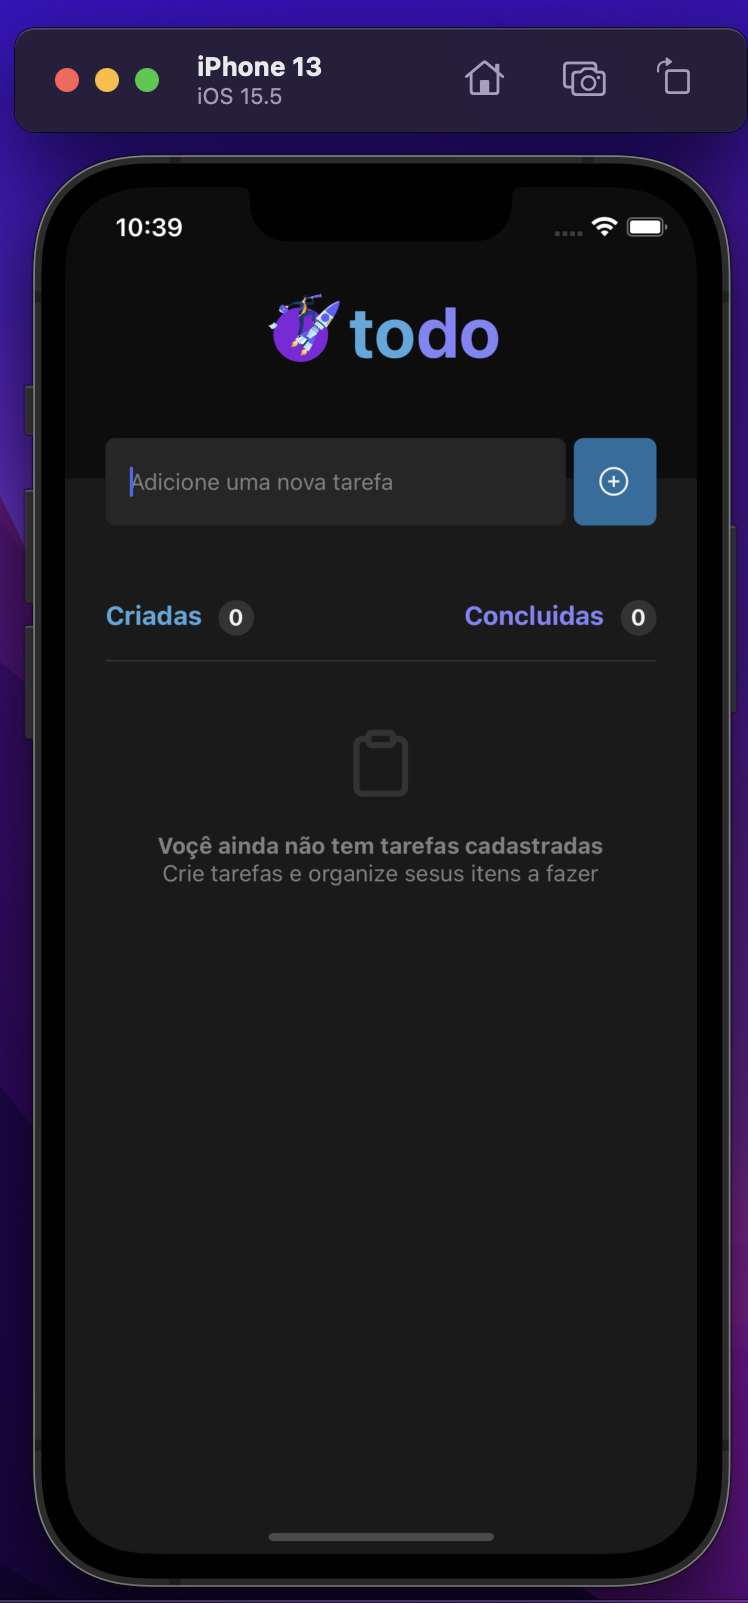
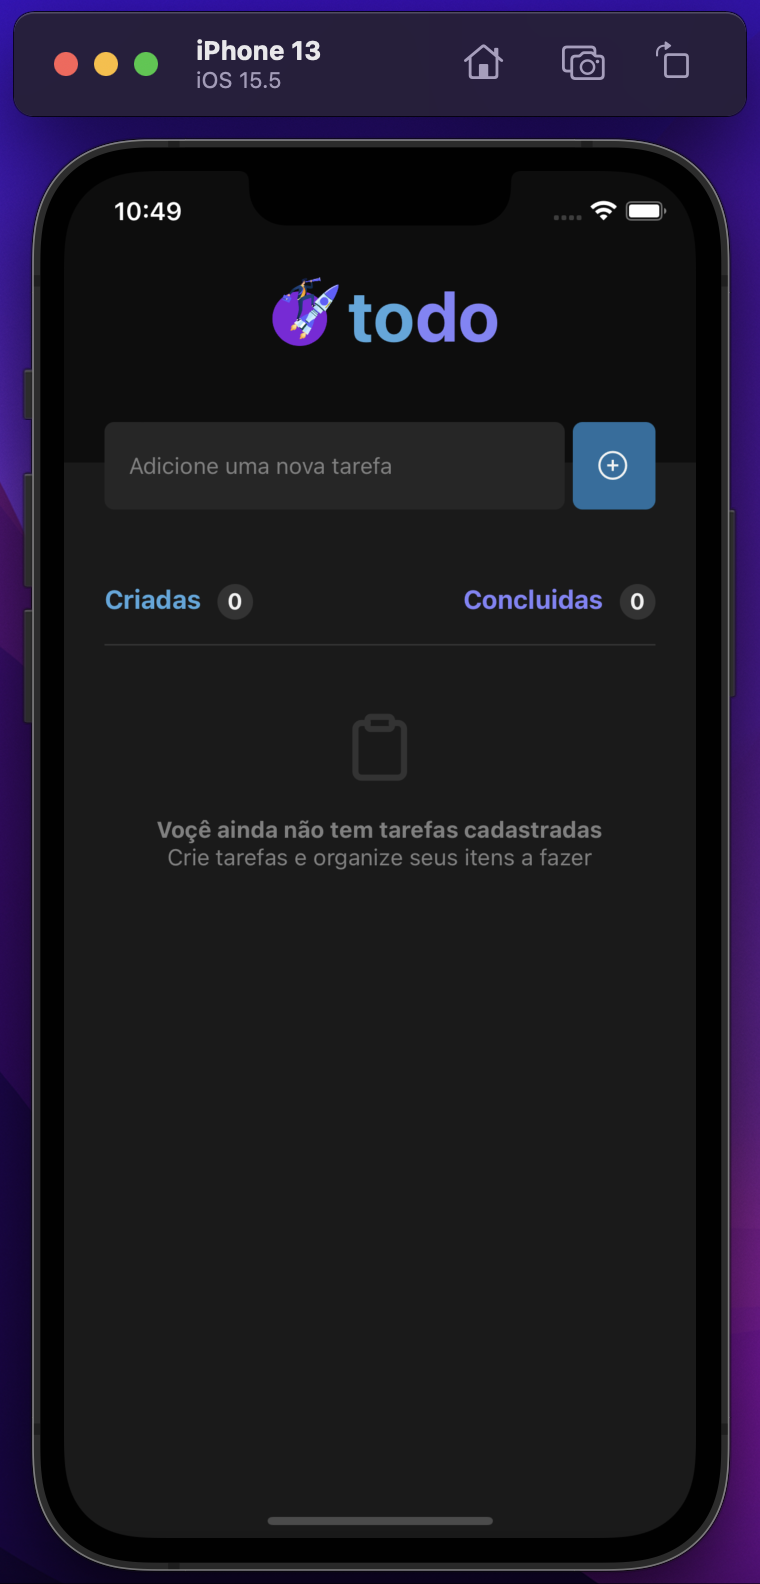
change image

Changed region(s): [[0.0, 0.0, 1.0, 1.0], [0.2152, 0.4331, 0.7995, 0.5568], [0.123, 0.3712, 0.3382, 0.4021]]

diff --git a/src/components/TaskList/index.tsx b/src/components/TaskList/index.tsx
@@ -21,7 +21,7 @@ const TaskList = ({data,onCheckTask,onDeleteTask}:Props) => {
         ListEmptyComponent={()=> (<View style={styles.emptyContainer}>
                 <Feather style={styles.clipboard} size={45} name='clipboard' color={Colors.Base.gray400} />
                 <Text style={[{fontWeight: 'bold'},styles.textEmptyContainer]}>Voçê ainda não tem tarefas cadastradas</Text>
-                <Text style={[styles.textEmptyContainer]}>Crie tarefas e organize sesus itens a fazer</Text>
+                <Text style={[styles.textEmptyContainer]}>Crie tarefas e organize seus itens a fazer</Text>
         </View>) }
         renderItem={({item}) =>(
           <View style={styles.itemContainer}>
